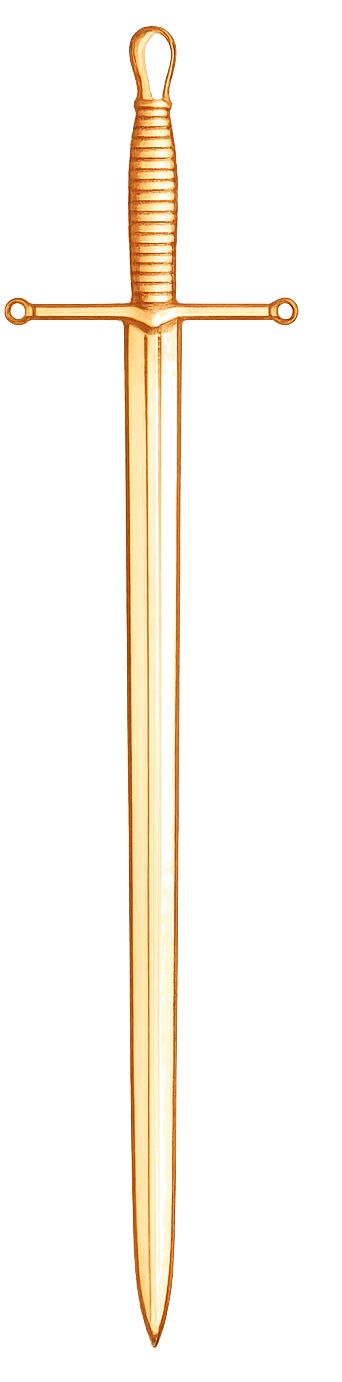
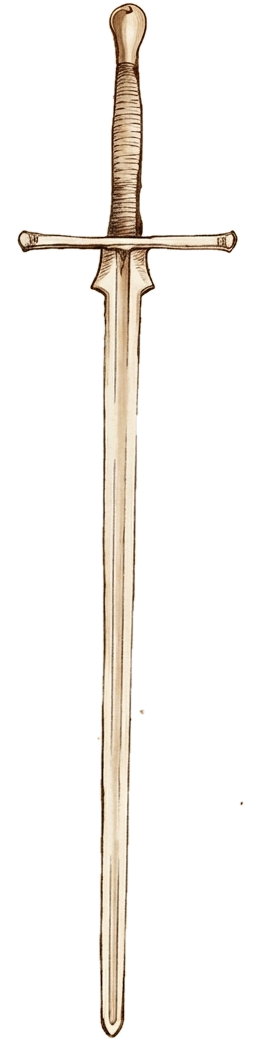
Add files via upload

Changed region(s): [[0.0, 0.0, 0.8955, 1.0]]

diff --git a/galeria.html b/galeria.html
@@ -9,7 +9,6 @@
 <link rel="stylesheet" href="assets/css/style.css">
 </head>
 <body>
-
 <header class="site-header">
   <div class="container">
     <a href="index.html" class="brand">
@@ -28,7 +27,6 @@
     </nav>
   </div>
 </header>
-
 <main id="page" class="page-sheet">
 <section class="page-hero">
   <div class="container">
@@ -37,25 +35,21 @@
     <p>Entrenamientos, seminarios y torneos. Estos espacios son marcadores de posición — reemplazalos por tus propias fotos y videos.</p>
   </div>
 </section>
-
 <section>
   <div class="container">
     <div class="gallery-grid">
-      <div class="gallery-item reveal"><div><svg class="placeholder-icon" viewBox="0 0 64 64" fill="none" stroke="currentColor" stroke-width="2"><rect x="8" y="14" width="48" height="36" rx="2"/><circle cx="22" cy="26" r="5"/><path d="M8,44 L24,30 L34,40 L46,26 L56,38"/></svg>Foto próximamente</div></div>
-      <div class="gallery-item reveal"><div><svg class="placeholder-icon" viewBox="0 0 64 64" fill="none" stroke="currentColor" stroke-width="2"><rect x="8" y="14" width="48" height="36" rx="2"/><circle cx="22" cy="26" r="5"/><path d="M8,44 L24,30 L34,40 L46,26 L56,38"/></svg>Foto próximamente</div></div>
-      <div class="gallery-item reveal"><div><svg class="placeholder-icon" viewBox="0 0 64 64" fill="none" stroke="currentColor" stroke-width="2"><rect x="8" y="14" width="48" height="36" rx="2"/><circle cx="22" cy="26" r="5"/><path d="M8,44 L24,30 L34,40 L46,26 L56,38"/></svg>Foto próximamente</div></div>
-      <div class="gallery-item reveal"><div><svg class="placeholder-icon" viewBox="0 0 64 64" fill="none" stroke="currentColor" stroke-width="2"><rect x="8" y="14" width="48" height="36" rx="2"/><circle cx="22" cy="26" r="5"/><path d="M8,44 L24,30 L34,40 L46,26 L56,38"/></svg>Foto próximamente</div></div>
-      <div class="gallery-item reveal"><div><svg class="placeholder-icon" viewBox="0 0 64 64" fill="none" stroke="currentColor" stroke-width="2"><rect x="8" y="14" width="48" height="36" rx="2"/><circle cx="22" cy="26" r="5"/><path d="M8,44 L24,30 L34,40 L46,26 L56,38"/></svg>Foto próximamente</div></div>
-      <div class="gallery-item reveal"><div><svg class="placeholder-icon" viewBox="0 0 64 64" fill="none" stroke="currentColor" stroke-width="2"><rect x="8" y="14" width="48" height="36" rx="2"/><circle cx="22" cy="26" r="5"/><path d="M8,44 L24,30 L34,40 L46,26 L56,38"/></svg>Foto próximamente</div></div>
+      <div class="gallery-item reveal"><img src="assets/img/gallery/entrenamiento-guardia.jpg" alt="Entrenamiento en guardia extendida, espada larga"></div>
+      <div class="gallery-item reveal"><img src="assets/img/gallery/cruce-espadas.jpg" alt="Cruce de espadas durante un asalto de entrenamiento"></div>
+      <div class="gallery-item reveal"><img src="assets/img/gallery/trabajo-cercano.jpg" alt="Trabajo a distancia corta durante un asalto"></div>
+      <div class="gallery-item reveal"><img src="assets/img/gallery/espadas-equipo.jpg" alt="Espadas de entrenamiento del club"></div>
       <div class="gallery-item reveal"><div><svg class="placeholder-icon" viewBox="0 0 64 64" fill="none" stroke="currentColor" stroke-width="2"><rect x="8" y="14" width="48" height="36" rx="2"/><circle cx="22" cy="26" r="5"/><path d="M8,44 L24,30 L34,40 L46,26 L56,38"/></svg>Foto próximamente</div></div>
       <div class="gallery-item reveal"><div><svg class="placeholder-icon" viewBox="0 0 64 64" fill="none" stroke="currentColor" stroke-width="2"><rect x="8" y="14" width="48" height="36" rx="2"/><circle cx="22" cy="26" r="5"/><path d="M8,44 L24,30 L34,40 L46,26 L56,38"/></svg>Foto próximamente</div></div>
     </div>
-    <p class="form-note" style="margin-top:2rem;">Para reemplazar un espacio: subí tu foto a <code>assets/img/</code> y cambiá el bloque <code>.gallery-item</code> correspondiente por <code>&lt;div class="gallery-item reveal"&gt;&lt;img src="assets/img/tu-foto.jpg" alt="..."&gt;&lt;/div&gt;</code> dentro de <code>galeria.html</code>. Elegí las 8 mejores fotos que tengas — mejor pocas y buenas que muchas mediocres.</p>
+    <p class="form-note" style="margin-top:2rem;">Para reemplazar un espacio: subí tu foto a <code>assets/img/</code> y cambiá el bloque <code>.gallery-item</code> correspondiente por <code>&lt;div class="gallery-item reveal"&gt;&lt;img src="assets/img/tu-foto.jpg" alt="..."&gt;&lt;/div&gt;</code> dentro de <code>galeria.html</code>. Sumá tus próximas fotos con la misma idea: mejor pocas y buenas que muchas mediocres.</p>
   </div>
 </section>
 <div class="folio">Folio V — Galería</div>
 </main>
-
 <footer>
   <div class="container">
     <div class="footer-grid">
@@ -88,7 +82,6 @@
     </div>
   </div>
 </footer>
-
 <script>document.getElementById('year').textContent = new Date().getFullYear();</script>
 <script src="assets/js/main.js"></script>
 <script src="assets/js/page-transitions.js"></script>

diff --git a/index.html b/index.html
@@ -37,6 +37,7 @@
 <section class="hero-split">
   <div class="container">
     <div class="reveal">
+      <img src="assets/img/logo.png" alt="Escudo Freifechter Mendoza" class="hero-logo">
       <span class="eyebrow">Mendoza, Argentina</span>
       <h1>Aprendé a combatir con espada.</h1>
       <p class="lead">Entrená Esgrima Histórica Europea (HEMA) en Mendoza. Estudiamos y practicamos un arte marcial basado en tratados históricos del siglo XVI, combinando investigación, técnica y combate con un enfoque progresivo y seguro. No enseñamos coreografías. Enseñamos a comprender, decidir y combatir.</p>
@@ -223,10 +224,10 @@
     <span class="eyebrow">Registro visual</span>
     <h2 style="margin-bottom:2rem;">Galería</h2>
     <div class="gallery-grid">
-      <div class="gallery-item reveal"><div><svg class="placeholder-icon" viewBox="0 0 64 64" fill="none" stroke="currentColor" stroke-width="2"><rect x="8" y="14" width="48" height="36" rx="2"/><circle cx="22" cy="26" r="5"/><path d="M8,44 L24,30 L34,40 L46,26 L56,38"/></svg>Foto próximamente</div></div>
-      <div class="gallery-item reveal"><div><svg class="placeholder-icon" viewBox="0 0 64 64" fill="none" stroke="currentColor" stroke-width="2"><rect x="8" y="14" width="48" height="36" rx="2"/><circle cx="22" cy="26" r="5"/><path d="M8,44 L24,30 L34,40 L46,26 L56,38"/></svg>Foto próximamente</div></div>
-      <div class="gallery-item reveal"><div><svg class="placeholder-icon" viewBox="0 0 64 64" fill="none" stroke="currentColor" stroke-width="2"><rect x="8" y="14" width="48" height="36" rx="2"/><circle cx="22" cy="26" r="5"/><path d="M8,44 L24,30 L34,40 L46,26 L56,38"/></svg>Foto próximamente</div></div>
-      <div class="gallery-item reveal"><div><svg class="placeholder-icon" viewBox="0 0 64 64" fill="none" stroke="currentColor" stroke-width="2"><rect x="8" y="14" width="48" height="36" rx="2"/><circle cx="22" cy="26" r="5"/><path d="M8,44 L24,30 L34,40 L46,26 L56,38"/></svg>Foto próximamente</div></div>
+      <div class="gallery-item reveal"><img src="assets/img/gallery/entrenamiento-guardia.jpg" alt="Entrenamiento en guardia extendida, espada larga"></div>
+      <div class="gallery-item reveal"><img src="assets/img/gallery/cruce-espadas.jpg" alt="Cruce de espadas durante un asalto de entrenamiento"></div>
+      <div class="gallery-item reveal"><img src="assets/img/gallery/trabajo-cercano.jpg" alt="Trabajo a distancia corta durante un asalto"></div>
+      <div class="gallery-item reveal"><img src="assets/img/gallery/espadas-equipo.jpg" alt="Espadas de entrenamiento del club"></div>
     </div>
     <div style="text-align:center;margin-top:2rem;"><a href="galeria.html" class="btn">Ver galería completa</a></div>
   </div>

diff --git a/assets/css/style.css b/assets/css/style.css
@@ -106,7 +106,7 @@ section{ padding: clamp(3.5rem, 8vw, 7rem) 0; position:relative; }
 }
 .site-header .container{ display:flex; align-items:center; justify-content:space-between; gap:1.5rem; }
 .brand{ display:flex; align-items:center; gap:.7rem; text-decoration:none; }
-.brand svg, .brand img{ width:34px; height:34px; object-fit:contain; color: var(--gold-light); flex-shrink:0; }
+.brand svg, .brand img{ width:48px; height:48px; object-fit:contain; color: var(--gold-light); flex-shrink:0; }
 .brand-word{ font-family: var(--display); font-size:.78rem; line-height:1.35; letter-spacing:.1em; color: var(--parchment); }
 
 .nav-toggle{
@@ -254,6 +254,7 @@ footer a:hover{ color: var(--gold-light); }
   background: radial-gradient(ellipse at 30% 20%, rgba(184,134,47,.10), transparent 55%), var(--ink);
 }
 .hero-split .container{ display:grid; grid-template-columns: 1.05fr .95fr; gap: 3.5rem; align-items:center; }
+.hero-logo{ width:76px; height:76px; object-fit:contain; margin-bottom:1.1rem; }
 .hero-split h1{ margin-bottom:.8rem; }
 .hero-split .lead{ color: var(--text-soft); font-size:1.15rem; max-width: 46ch; margin-bottom: 2rem; }
 .hero-plate{